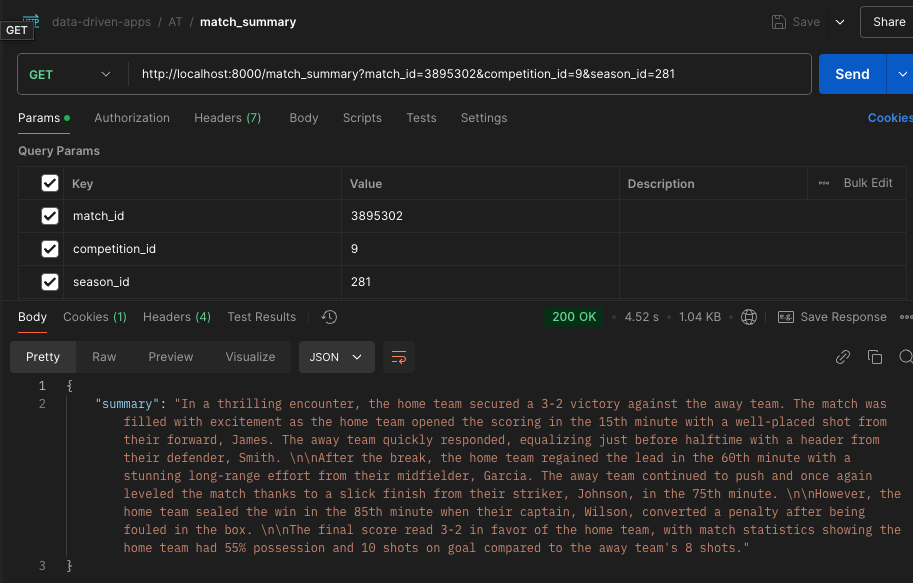
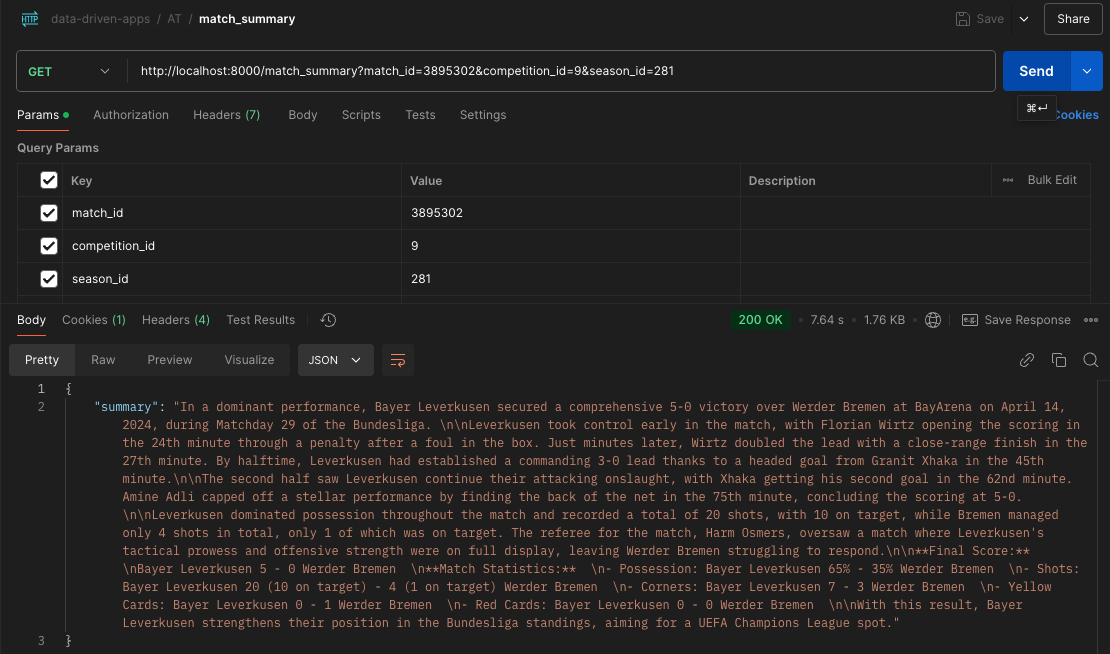
bugfix and improving match summary

diff --git a/src/api_app.py b/src/api_app.py
@@ -7,7 +7,7 @@ from typing import Dict, Any, List
 from fastapi.responses import JSONResponse
 from fastapi.requests import Request
 from model.openai_model import ChatRequest, ChatResponse, ChatSummary
-from model.stats_bomb_model import MatchEvents, PlayerEvents, PlayerProfile
+from model.stats_bomb_model import MatchEvents, PlayerProfile
 import requests
 import logging
 
@@ -71,7 +71,15 @@ def get_match(match_id: int, competition_id: int, season_id: int) -> ChatSummary
     """
     
     match_dict = StatsBombService.get_match_dict(match_id, competition_id, season_id)
-    events_dict = StatsBombService.get_events_dict(match_id)
+    
+    # Open AI, por padrão, tem um limite de 200K de tokens no INPUT, não é possível enviar muitos eventos. 
+    # A aplicação suporta passar quantos eventos quiser, porém devido a limitação, foi escolhido passar apenas eventos de chutes.
+    events_dict = StatsBombService.get_events_dict(
+        match_id,
+        event_type_list=[
+            MatchEvents.SHOT.value, 
+        ]
+    )
     summary = OpenAIClientService.get_match_summary(match_dict, events_dict)
     return {"summary": summary}
 

diff --git a/src/model/stats_bomb_model.py b/src/model/stats_bomb_model.py
@@ -2,29 +2,6 @@ from enum import Enum
 from typing import List, Dict, Any, Optional
 from pydantic import BaseModel, Field
 
-class PlayerEvents(Enum):
-    PASS = 'Pass'
-    BALL_RECEIPT = 'Ball Receipt*'
-    CARRY = 'Carry'
-    PRESSURE = 'Pressure'
-    FOUL_COMMITTED = 'Foul Committed'
-    FOUL_WON = 'Foul Won'
-    DISPOSSESSED = 'Dispossessed'
-    DUEL = 'Duel'
-    DRIBBLED_PAST = 'Dribbled Past'
-    DRIBBLE = 'Dribble'
-    BLOCK = 'Block'
-    INTERCEPTION = 'Interception'
-    BALL_RECOVERY = 'Ball Recovery'
-    MISCONTROL = 'Miscontrol'
-    SHIELD = 'Shield'
-    SHOT = 'Shot'
-    GOAL_KEEPER = 'Goal Keeper'
-    BAD_BEHAVIOUR = 'Bad Behaviour'
-        
-    def to_value_list() -> List:
-        return [e.value for e in PlayerEvents]
-
 class MatchEvents(Enum):
     STARTING_XI = 'Starting XI'
     HALF_START = 'Half Start'

diff --git a/src/service/openai_client_service.py b/src/service/openai_client_service.py
@@ -56,7 +56,7 @@ class OpenAIClientService:
         openai.api_key = api_key
         client: OpenAI = openai
         
-        system_prompt = """
+        system_prompt = f"""
             You are a sports journalist writing a match summary for a sports website.
             
             Utilize the information below to write a summary of the match between the home team and the away team.
